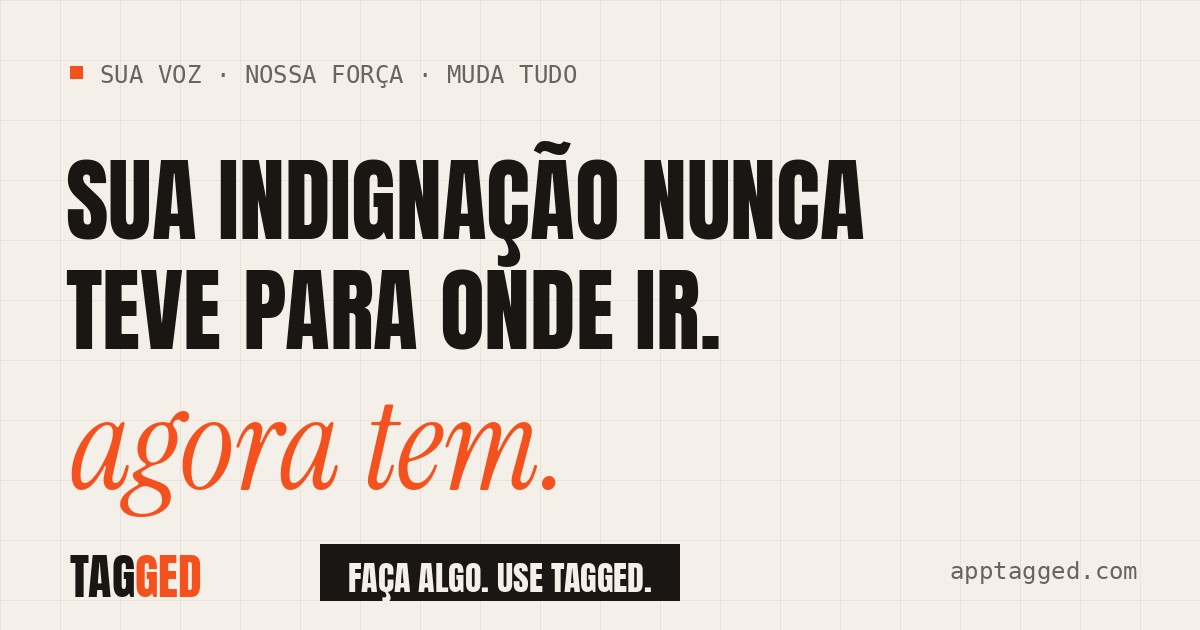
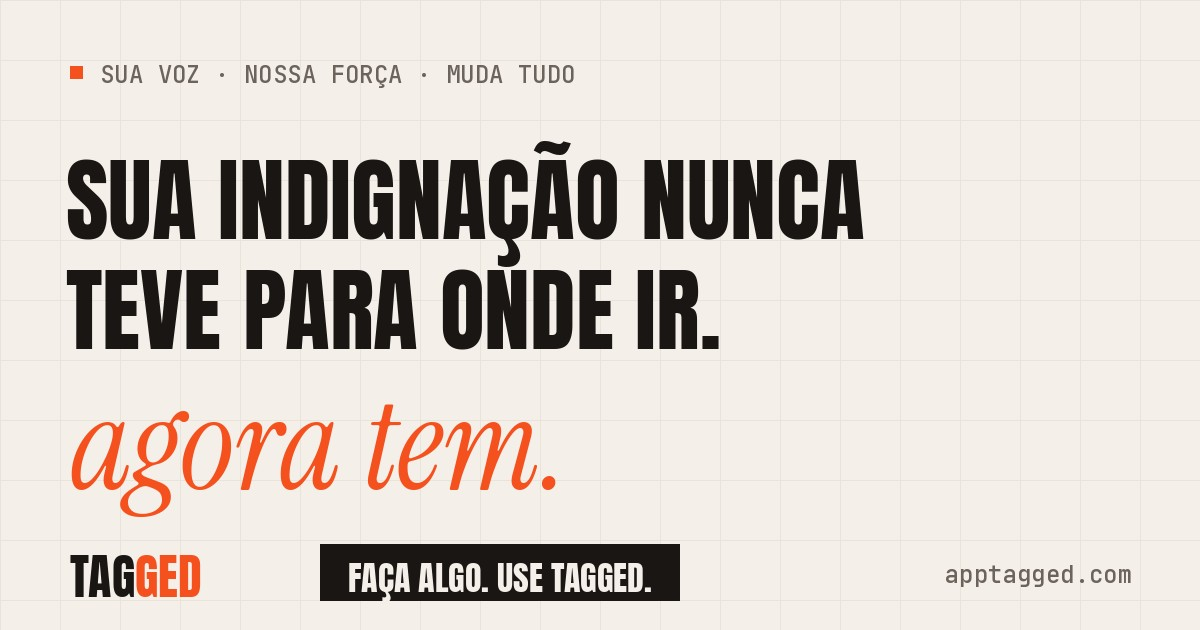
adjust coding of landing page

diff --git a/index.html b/index.html
@@ -5,6 +5,13 @@
         <meta name="viewport" content="width=device-width, initial-scale=1.0" />
         <title>Tagged — Sua voz, nossa força, muda tudo</title>
 
+        <!-- Favicon -->
+        <link rel="icon" href="/favicon.ico" sizes="any" />
+        <link rel="icon" type="image/png" sizes="32x32" href="assets/favicon-32.png" />
+        <link rel="icon" type="image/png" sizes="512x512" href="assets/favicon-512.png" />
+        <link rel="apple-touch-icon" href="assets/apple-touch-icon.png" />
+        <meta name="theme-color" content="#f4511e" />
+
         <!-- SEO -->
         <meta
             name="description"
@@ -1387,6 +1394,13 @@
             @media (prefers-reduced-motion: reduce) {
                 .pq-col-layer {
                     transition: none;
+                }
+            }
+            /* responsivo: tela larga = 5 colunas; estreita = 3 do centro */
+            @media (max-width: 980px) {
+                .pq-col:first-child,
+                .pq-col:last-child {
+                    display: none;
                 }
             }
             /* Modal do filme — formato celular */
@@ -2885,6 +2899,14 @@
                 "
             ></div>
             <div class="pq-cols" id="pqCols" aria-hidden="true">
+                <div class="pq-col" data-dir="up">
+                    <div class="pq-col-layer"></div>
+                    <div class="pq-col-layer"></div>
+                </div>
+                <div class="pq-col" data-dir="down">
+                    <div class="pq-col-layer"></div>
+                    <div class="pq-col-layer"></div>
+                </div>
                 <div class="pq-col" data-dir="up">
                     <div class="pq-col-layer"></div>
                     <div class="pq-col-layer"></div>
@@ -6716,4 +6738,242 @@
                     }
                 }
                 if (document.readyState !== "loading") init();
-                else 
+                else document.addEventListener("DOMContentLoaded", init);
+            })();
+        </script>
+
+        <script>
+            (function () {
+                var AVATARS = [
+                    "assets/avatar-631c09c569.png",
+                    "assets/avatar-b9b7102820.png",
+                    "assets/avatar-6c93c49460.png",
+                    "assets/avatar-94e04eb303.png",
+                    "assets/avatar-04dc27ddaa.png",
+                    "assets/avatar-fca8988264.png",
+                    "assets/avatar-3d3f60d363.png",
+                    "assets/avatar-dbcff295e0.png",
+                    "assets/avatar-6ff3ef5650.png",
+                    "assets/avatar-0344fc8eb8.png",
+                    "assets/avatar-2b4c60d5a0.png",
+                    "assets/avatar-81421ba030.png",
+                    "assets/avatar-2c6abc13d5.png",
+                    "assets/avatar-1831c2232d.png",
+                    "assets/avatar-cf37b2d778.png",
+                    "assets/avatar-f594379fbb.png",
+                    "assets/avatar-aa3295620e.png",
+                    "assets/avatar-897de519aa.png",
+                    "assets/avatar-d2bf0ca2b9.png",
+                    "assets/avatar-2bc93b888a.png",
+                    "assets/avatar-b1aca15c76.png",
+                    "assets/avatar-e86c372cff.png",
+                    "assets/avatar-8bb23ac3c3.png",
+                    "assets/avatar-9aedb9c37f.png",
+                    "assets/avatar-cc8c32aa38.png",
+                    "assets/avatar-f28e03ca23.png",
+                    "assets/avatar-929e97247d.png",
+                    "assets/avatar-72272ef54c.png",
+                    "assets/avatar-31b19d24be.png",
+                    "assets/avatar-d89df58348.png",
+                    "assets/avatar-31f0cccf58.png",
+                    "assets/avatar-653f7cabf4.png",
+                ];
+                function start() {
+                    var stack = document.getElementById("netgrowStack");
+                    var incoming = document.getElementById("netgrowIncoming");
+                    var plus = document.getElementById("netgrowPlus");
+                    if (!stack || !incoming) {
+                        return;
+                    }
+                    if (
+                        window.matchMedia &&
+                        window.matchMedia("(prefers-reduced-motion: reduce)")
+                            .matches
+                    ) {
+                        return;
+                    }
+                    var idx = 5,
+                        maxStack = 9;
+                    function tick() {
+                        var src =
+                            AVATARS[idx % AVATARS.length];
+                        incoming.src = src;
+                        incoming.classList.remove("fly");
+                        void incoming.offsetWidth;
+                        incoming.classList.add("fly");
+                        setTimeout(function () {
+                            var img = document.createElement("img");
+                            img.className = "av";
+                            img.src = src;
+                            img.alt = "";
+                            stack.appendChild(img);
+                            while (stack.children.length > maxStack) {
+                                stack.removeChild(stack.firstChild);
+                            }
+                            // pulsa o "+"
+                            if (plus) {
+                                plus.classList.add("pulse");
+                                setTimeout(function () {
+                                    plus.classList.remove("pulse");
+                                }, 260);
+                            }
+                        }, 650);
+                        idx++;
+                    }
+                    setTimeout(function () {
+                        tick();
+                        setInterval(tick, 1600);
+                    }, 1000);
+                }
+                if (document.readyState !== "loading") {
+                    start();
+                } else {
+                    document.addEventListener("DOMContentLoaded", start);
+                }
+            })();
+        </script>
+
+        <!-- Modal do filme (formato celular) -->
+        <div class="film-modal" id="filmModal" role="dialog" aria-modal="true" aria-label="Propaganda Tagged">
+            <button class="fm-close" id="fmClose" aria-label="Fechar">✕</button>
+            <div class="fm-phone">
+                <video
+                    id="fmVid"
+                    poster="assets/img-07-77ae0f440d.jpg"
+                    controls
+                    loop
+                    playsinline
+                    preload="none"
+                >
+                    <source
+                        src="assets/video-01-01731ca899.webm"
+                        type="video/webm"
+                    />
+                </video>
+            </div>
+        </div>
+        <script>
+            /* Modal do filme */
+            (function () {
+                var modal = document.getElementById("filmModal");
+                var mVid = document.getElementById("fmVid");
+                var btn = document.getElementById("fmClose");
+                var inline = document.getElementById("comVid");
+                var pv = document.getElementById("phoneVideo");
+                if (!modal || !pv) return;
+
+                function openModal() {
+                    modal.classList.add("open");
+                    document.body.style.overflow = "hidden";
+                    if (inline) {
+                        try {
+                            mVid.currentTime = inline.currentTime || 0;
+                        } catch (e) {}
+                        inline.pause();
+                    }
+                    mVid.muted = false;
+                    mVid.play().catch(function () {});
+                }
+                function closeModal() {
+                    modal.classList.remove("open");
+                    document.body.style.overflow = "";
+                    mVid.pause();
+                    if (inline) inline.play().catch(function () {});
+                }
+                pv.style.cursor = "pointer";
+                pv.addEventListener(
+                    "click",
+                    function (e) {
+                        e.stopPropagation(); // impede o toggle antigo de play/pause
+                        openModal();
+                    },
+                    true
+                );
+                btn.addEventListener("click", closeModal);
+                modal.addEventListener("click", function (e) {
+                    if (e.target === modal) closeModal();
+                });
+                document.addEventListener("keydown", function (e) {
+                    if (e.key === "Escape" && modal.classList.contains("open"))
+                        closeModal();
+                });
+            })();
+        </script>
+        <script>
+            /* Colunas vivas da seção Bem-vindo */
+            (function () {
+                var wrap = document.getElementById("pqCols");
+                if (!wrap) return;
+                var POOL = [
+                    "assets/col-01.jpg",
+                    "assets/col-02.jpg",
+                    "assets/col-03.jpg",
+                    "assets/col-04.jpg",
+                    "assets/col-05.jpg",
+                    "assets/col-06.jpg",
+                    "assets/col-07.jpg",
+                    "assets/col-08.jpg",
+                    "assets/col-09.jpg",
+                    "assets/col-10.jpg",
+                    "assets/col-11.jpg",
+                    "assets/col-12.jpg",
+                    "assets/col-13.jpg",
+                    "assets/col-14.jpg",
+                    "assets/col-15.jpg",
+                ];
+                var cols = wrap.querySelectorAll(".pq-col");
+                var N = cols.length; // 5 colunas
+                var idx = [0, 1, 2, 3, 4];
+                var active = [0, 0, 0, 0, 0];
+                var reduce =
+                    window.matchMedia &&
+                    window.matchMedia("(prefers-reduced-motion: reduce)")
+                        .matches;
+
+                function setBg(layer, src, cb) {
+                    var im = new Image();
+                    im.onload = function () {
+                        layer.style.backgroundImage = "url(" + src + ")";
+                        if (cb) cb();
+                    };
+                    im.src = src;
+                }
+
+                cols.forEach(function (col, c) {
+                    var layers = col.querySelectorAll(".pq-col-layer");
+                    setBg(layers[0], POOL[idx[c]], function () {
+                        layers[0].classList.add("on");
+                    });
+                });
+                if (reduce) return;
+
+                var turn = 0,
+                    visible = false;
+                new IntersectionObserver(
+                    function (entries) {
+                        visible = entries[0].isIntersecting;
+                    },
+                    { threshold: 0.15 }
+                ).observe(wrap.parentElement);
+
+                setInterval(function () {
+                    if (!visible) return;
+                    var c = turn % N;
+                    turn++;
+                    var col = cols[c];
+                    if (col.offsetParent === null) return; // coluna oculta no responsivo
+                    var layers = col.querySelectorAll(".pq-col-layer");
+                    var cur = layers[active[c]];
+                    var nxt = layers[1 - active[c]];
+                    idx[c] = (idx[c] + N) % POOL.length;
+                    setBg(nxt, POOL[idx[c]], function () {
+                        void nxt.offsetWidth;
+                        nxt.classList.add("on");
+                        cur.classList.remove("on");
+                        active[c] = 1 - active[c];
+                    });
+                }, 4200);
+            })();
+        </script>
+    </body>
+</html> 

diff --git a/manifesto/index.html b/manifesto/index.html
@@ -7,6 +7,10 @@
 <meta name="apple-mobile-web-app-capable" content="yes">
 <meta name="apple-mobile-web-app-status-bar-style" content="black-translucent">
 <title>Tagged — A Primeira RealTech do Mundo</title>
+<link rel="icon" href="../favicon.ico" sizes="any" />
+<link rel="icon" type="image/png" sizes="32x32" href="../assets/favicon-32.png" />
+<link rel="apple-touch-icon" href="../assets/apple-touch-icon.png" />
+<meta name="theme-color" content="#f4511e" />
[2 lines of base64/hex data omitted]
 <link rel="preconnect" href="https://fonts.googleapis.com">